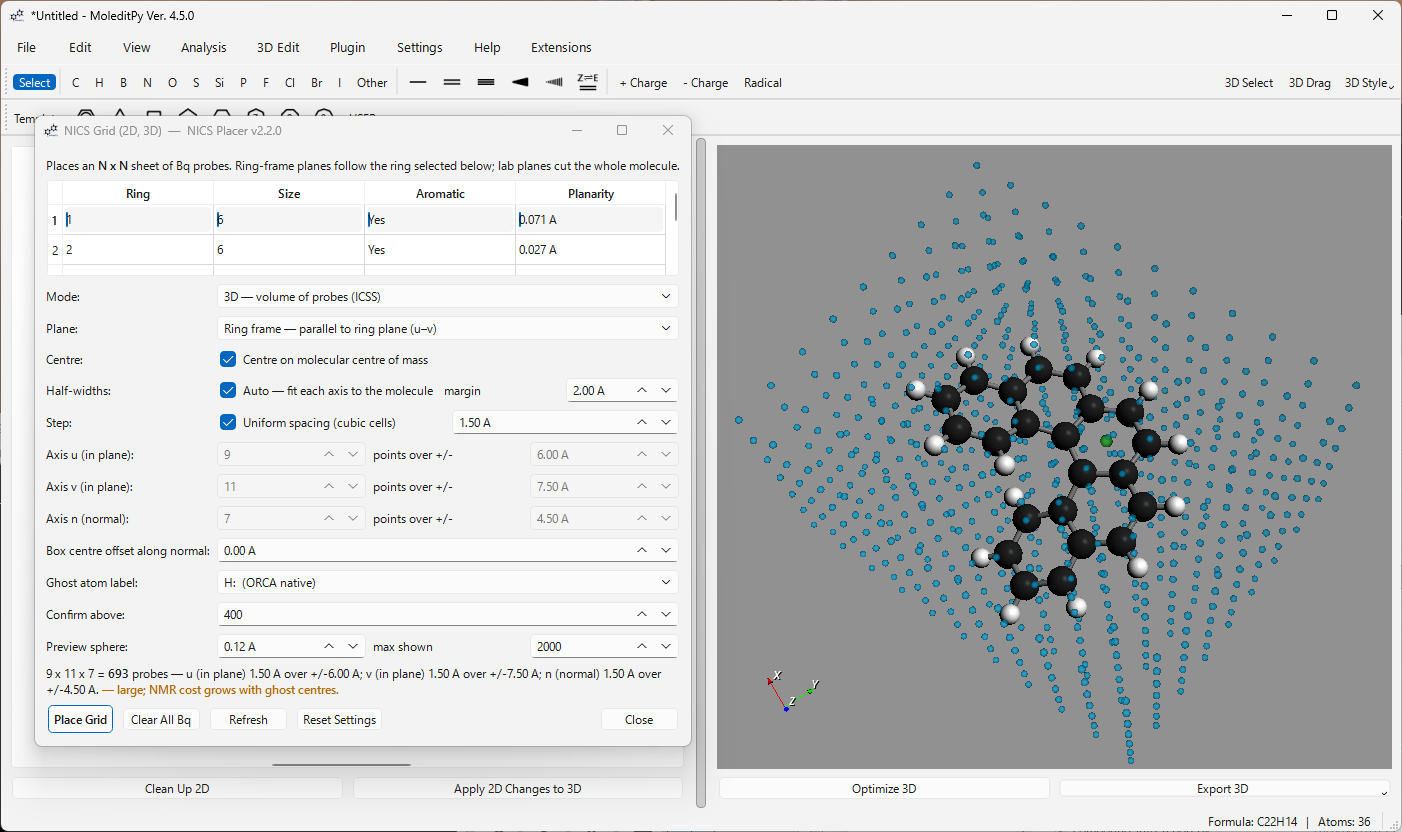
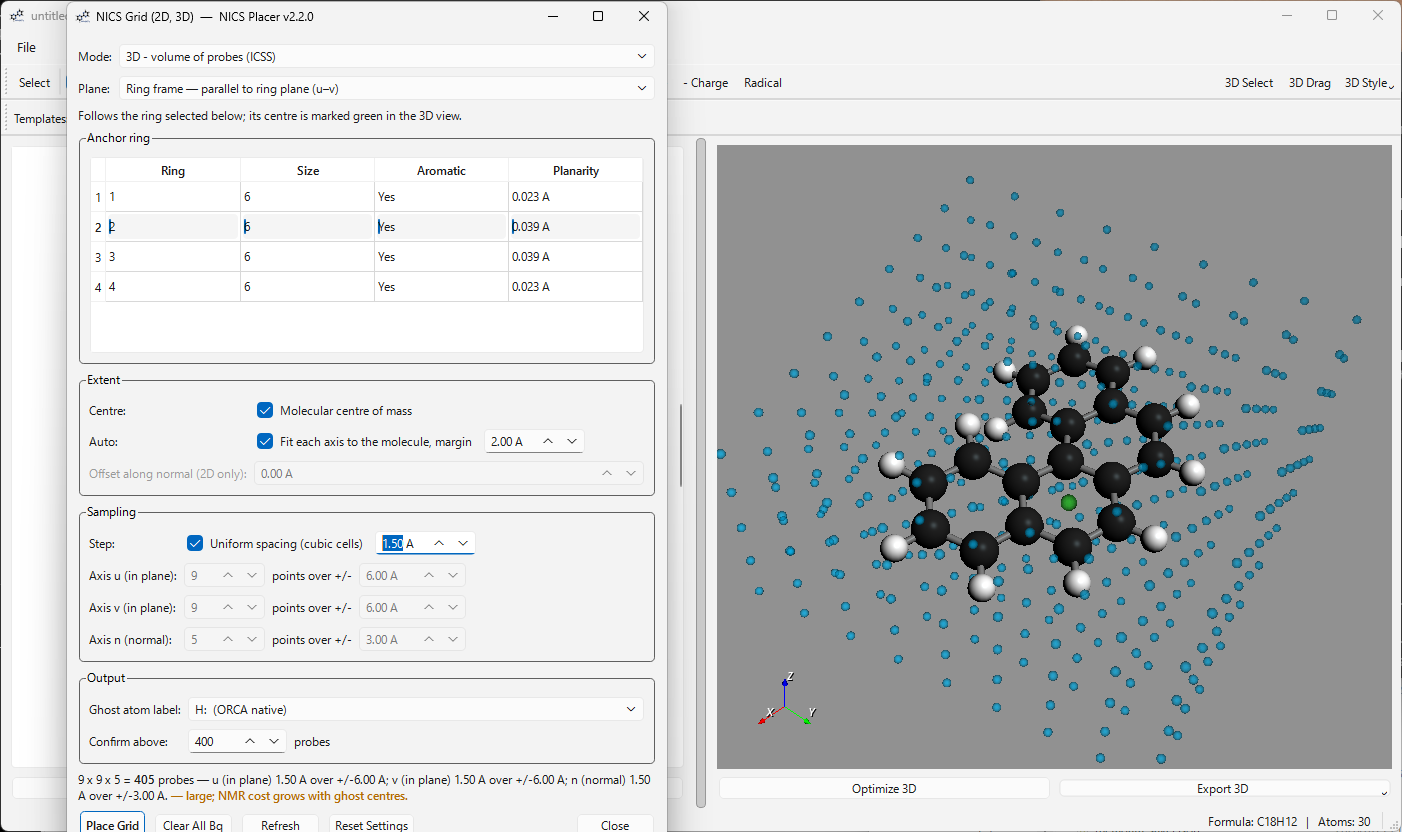
Fix reset leaving the ring table dead; lint; refresh screenshot
Reset changes the plane with signals blocked, so the widget state that
normally rides on that signal was never reapplied. Resetting from a lab
plane therefore returned the grid to being ring-anchored while the ring
table stayed greyed out and unpickable, and the hint still claimed
laboratory axes.

The mode- and plane-dependent widget states are now in _apply_mode_state
and _apply_plane_state, which do no rebuilding, so both the signal
handlers and the reset can share them and the reset still rebuilds the
grid exactly once.

Swept all 48 combinations of mode x plane x uniform x auto against seven
invariants -- grid size matches the reported counts, offset locked in 3D,
ring table enabled iff ring-frame, equal step under uniform spacing, the
two lock states, and reset consistency. No other cases were wrong.

Cleared the nine pre-existing ruff findings in tests/ (unused imports, an
f-string with no placeholders). nics_placer/ was already clean.

Screenshot refreshed for the new layout; caption now matches the numbers
actually shown.

diff --git a/nics_placer/grid_dialog.py b/nics_placer/grid_dialog.py
@@ -360,7 +360,13 @@ class NicsGridDialog(QDialog):
             row["e"].setVisible(visible)
             row["label"].setText(f"Axis {names[slot]}:")
 
-    def _on_plane_changed(self, _index):
+    def _apply_plane_state(self):
+        """Widget enabling that follows from the plane. Does not rebuild.
+
+        Split out from the signal handler so `_reset_settings`, which changes
+        the plane with signals blocked, can reapply it without triggering a
+        second grid build.
+        """
         # A ring-frame grid is anchored to one ring; lab planes are
         # molecule-wide, so the table does not apply. Greyed out rather than
         # hidden: hiding it reflows everything below on every plane change,
@@ -376,12 +382,15 @@ class NicsGridDialog(QDialog):
             else "Fixed laboratory axes across the whole molecule; no anchor "
             "ring applies."
         )
+
+    def _on_plane_changed(self, _index):
+        self._apply_plane_state()
         self._refresh_axis_rows()
         self._on_params_changed()
 
-    def _on_mode_changed(self, _index):
+    def _apply_mode_state(self):
+        """Widget enabling that follows from the mode. Does not rebuild."""
         is3d = self._is_3d()
-        self._refresh_axis_rows()
         # In 2D the offset picks which slice you are sampling -- 1 A is the
         # NICS(1) face map. In 3D the box already spans the normal direction
         # symmetrically, so an offset only slides it off the centre you just
@@ -398,6 +407,10 @@ class NicsGridDialog(QDialog):
         self._plane_combo.setToolTip(
             "In 3D mode the plane only fixes the box orientation." if is3d else ""
         )
+
+    def _on_mode_changed(self, _index):
+        self._apply_mode_state()
+        self._refresh_axis_rows()
         self._on_params_changed()
 
     def _on_auto_toggled(self, checked):
@@ -454,8 +467,14 @@ class NicsGridDialog(QDialog):
         finally:
             for w in widgets:
                 w.blockSignals(False)
+        # Reapply every state that normally rides on a signal. The plane was
+        # changed with signals blocked, so without this a reset from a lab
+        # plane leaves the grid ring-anchored again while the ring table stays
+        # greyed out and unpickable.
+        self._apply_mode_state()
+        self._apply_plane_state()
         self._refresh_axis_rows()
-        self._on_mode_changed(0)
+        self._on_params_changed()
 
     def _on_symbol_changed(self, _index):
         self._ghost_symbol = self._sym_combo.currentData()

diff --git a/tests/test_grid_dialog.py b/tests/test_grid_dialog.py
@@ -1120,3 +1120,48 @@ def test_offset_comes_back_when_returning_to_2d():
     dlg._offset_spin.setValue(1.0)
     dlg._on_params_changed()
     assert max(abs(float(p["pos"][2])) for p in dlg._grid_points) > 0
+
+
+@needs_dialog
+def test_reset_from_a_lab_plane_re_enables_the_ring_table():
+    """Reset changes the plane with signals blocked, so the state that
+    normally rides on the signal has to be reapplied by hand -- otherwise the
+    grid goes back to being ring-anchored while the ring stays unpickable."""
+    dlg = _dialog()
+    _select_plane(dlg, "xy")
+    assert not dlg._table.isEnabled()
+    dlg._reset_settings()
+    assert dlg._current_plane() == "parallel"
+    assert dlg._table.isEnabled()
+    dlg._ring_group.setEnabled.assert_called_with(True)
+
+
+@needs_dialog
+def test_reset_from_a_lab_plane_restores_the_hint():
+    dlg = _dialog()
+    _select_plane(dlg, "xy")
+    dlg._reset_settings()
+    assert "ring selected below" in dlg._hint_label.setText.call_args[0][0]
+
+
+@needs_dialog
+def test_reset_from_3d_re_enables_the_offset():
+    dlg = _dialog()
+    _select_mode(dlg, "3d")
+    assert not dlg._offset_spin.isEnabled()
+    dlg._reset_settings()
+    assert dlg._offset_spin.isEnabled()
+
+
+@needs_dialog
+def test_reset_from_a_lab_plane_still_rebuilds_only_once():
+    dlg = _dialog()
+    _select_plane(dlg, "xy")
+    dlg._context.plotter.add_mesh.reset_mock()
+    dlg._reset_settings()
+    grid_draws = [
+        c
+        for c in dlg._context.plotter.add_mesh.call_args_list
+        if c.kwargs.get("name") == "nics_grid"
+    ]
+    assert len(grid_draws) == 1

diff --git a/tests/plugin_api_checker.py b/tests/plugin_api_checker.py
@@ -403,7 +403,7 @@ class AppAPIExtractor:
         print("\n=== Detected MainWindow API surface ===")
         for name, kind in sorted(self.api.mw_members.items()):
             print(f"  mw.{name}  [{kind}]")
-        print(f"\n  Managers with parsed members:")
+        print("\n  Managers with parsed members:")
         for mgr, members in self.api.manager_members.items():
             cls = self.api.manager_class_names.get(mgr, "?")
             print(f"    mw.{mgr}  ({cls}, {len(members)} members)")

diff --git a/tests/test_plugin_integration.py b/tests/test_plugin_integration.py
@@ -6,11 +6,10 @@ Integration tests for nics_placer/__init__.py — verifies plugin contract
 import sys
 import os
 import unittest
-from unittest.mock import MagicMock, call
+from unittest.mock import MagicMock
 
 sys.path.insert(0, os.path.normpath(os.path.join(os.path.dirname(__file__), "..")))
 
-import nics_placer as _pkg
 from nics_placer import initialize, PLUGIN_NAME, PLUGIN_VERSION
 
 

diff --git a/tests/test_init_handlers.py b/tests/test_init_handlers.py
@@ -5,12 +5,10 @@ Relies on the rich PyQt6/pyvista stubs installed by tests/conftest.py so
 that `from .dialog import NicsPlacerDialog` succeeds headlessly.
 """
 
-import builtins
-import importlib
 import json
 import os
 import sys
-from unittest.mock import MagicMock, mock_open, patch
+from unittest.mock import MagicMock
 
 import pytest
 

diff --git a/tests/test_dialog_class.py b/tests/test_dialog_class.py
@@ -5,7 +5,6 @@ rich PyQt6 / pyvista stubs installed by tests/conftest.py.
 
 import sys
 import os
-import types
 import logging
 from unittest.mock import MagicMock
 

diff --git a/tests/test_api.py b/tests/test_api.py
@@ -1,4 +1,3 @@
-import sys
 import unittest
 import importlib.util
 from pathlib import Path

diff --git a/README.md b/README.md
@@ -52,7 +52,7 @@ Lays down a whole lattice of probes so the shielding can be plotted as a surface
 
 ![NICS Grid dialog](img/main-grid.png)
 
-*A 3D box over a fused arene. Uniform spacing at 1.5 Å gives 9 × 11 × 7 points over ±6.00 / ±7.50 / ±4.50 Å — the counts follow the molecule's shape while the step stays identical on every axis. The green sphere marks the ring the frame is anchored to.*
+*A 3D box over chrysene. Uniform spacing at 1.5 Å gives 9 × 9 × 5 points over ±6.00 / ±6.00 / ±3.00 Å — the counts follow the molecule's shape while the step stays identical on every axis. The green sphere marks the ring the frame is anchored to, and the offset is greyed out because a 3D box is already centred.*
 
 - **2D** — a plane of probes
 - **3D** — a box of probes
